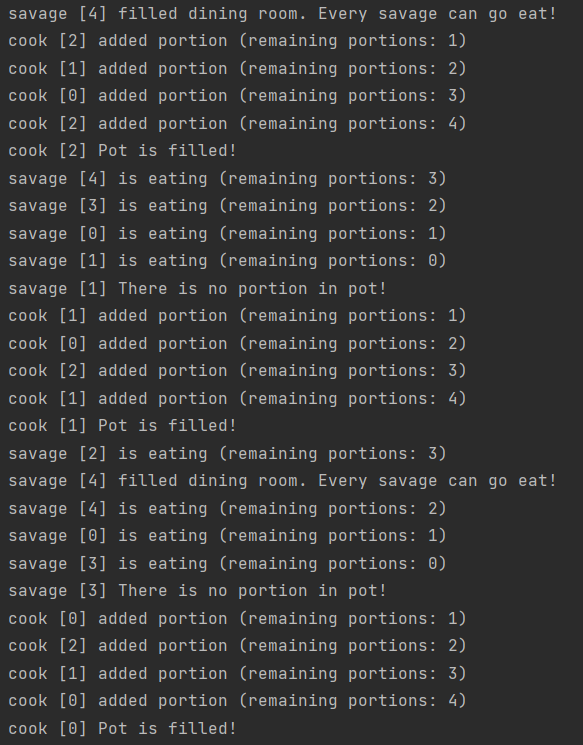
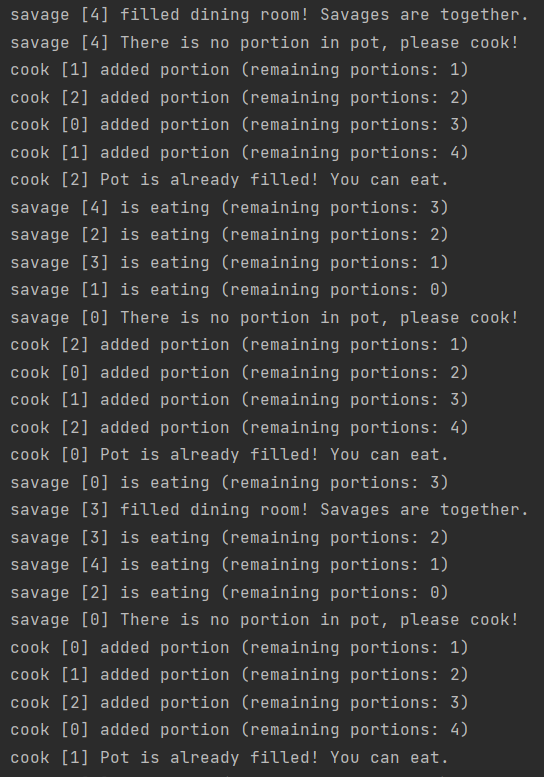
docs: update README to actual implementation

Changed region(s): [[0.0, 0.0, 0.9688, 0.9879], [0.875, 0.7718, 0.9375, 0.8027], [0.875, 0.4013, 0.9375, 0.4322]]

diff --git a/README.md b/README.md
@@ -44,24 +44,32 @@ if shared.dining_room == D:
 shared.savage_mutex.unlock()
 shared.turnstile1.wait()
 ```
-To ensure integrity, before incrementing value in dining rook to simulate that savage is ready to eat we first lock `savage_mutex`. Then value can be safely incremented and checked, if current savage is last one. If it is, he signal to all savages, that they can go eat and unlock Mutex. Otherwise, the savage is after unlocking mutex waiting for this signal from another savage (last line in snippet).
+To ensure integrity, before incrementing value in dining room to simulate that savage is ready to eat we first lock `savage_mutex`. Then value can be safely incremented and checked, if current savage is last one. If it is, he signal to all savages, that they can go eat and unlock Mutex. Otherwise, the savage is after unlocking mutex waiting for this signal from another savage (last line in snippet).
 
-Savages are now in kitchen and can access pot where we are changing value, so we need to lock `savage_mutex` again to keep integrity. Then we check and wait, when cooks are currently cooking meal  - `shared.pot_full.wait()`. If they are not cooking, function `eat_from_pot` is called, where is decremented value in `pot` and simulated getting portion by sleeping for 0.2 seconds. When this was last portion and pot is empty, before unlocking Mutex, savage clear **Event** `pot_full` for all savages, so they can't eat and must wait and signalize `pot_empty` to cook new food:
+Then we lock mutex again and check pot value. When the pot is empty (0), savage clear **Event** `pot_full` for savages, so they can't eat and must wait and signalize `pot_empty` to cook new food:
 ```
 shared.pot_full.clear()
 shared.pot_empty.signal()
 ```
+
+Then we check and wait, when cooks are currently cooking meal  - `shared.pot_full.wait()`. If they are not cooking, function `eat_from_pot` is called, where is decremented value in `pot` and simulated getting portion by sleeping for 0.2 seconds.
 
 After this we use another **barrier** to wait all savages after eating and leaving _together_. In this way we get a **reusable barrier** for savage threads.
 
 ### Function _cook_
 Function _cook_ is simulation of cook, cooking food in infinite loop.
 
-In function cook we call `cook_portion` function at begin, which contains only _sleep_ to simulate food cooking. Then we update `pot` value, so we are using mutex to ensure integrity. After locking mutex, function is waiting for `pot_empty` signal, which indicate that pot is empty and cooks can add food into it - by calling function `add_to_pot` which is incrementing pot value and simulating adding portion by sleeping for 0.1 seconds. After cook add portion into pot, he check, if pot is full. When it is full, thread clear `pot_empty` event - cooks are no more adding food into pot. Then send `pot_full` signal to savages, that pot is full and they can eat again.
+In function cook we call `cook_portion` function at begin, which contains only _sleep_ to simulate food cooking. We want to modify `pot` value, so we are using mutex to ensure integrity.
+
+After locking mutex, we check, if pot is full. When it is full, thread clear `pot_empty` event - cooks are no more adding food into pot. Then send `pot_full` signal to savages, that pot is full and they can eat again.
 ```
 shared.pot_empty.clear()
 shared.pot_full.signal()
 ```
+
+
+Then function is waiting for `pot_empty` signal, which indicate that pot is empty and cooks can add food into it - by calling function `add_to_pot` which is incrementing pot value and simulating adding portion by sleeping for 0.1 seconds.
+
 
 
 ## Implementation review
@@ -70,6 +78,6 @@ We have also added prints for the important thread activities and simulated by r
 ### Sample console output
 ![img.png](img.png)
 
-First line indicate, that all savages are ready to eat, but pot is empty first, so they must wait until cooks fill pot. Cooks are then filling pot one by one and last cook signalize to cooks that they can stop adding food and to savages, that they can eat. The 4 savages eat all the portions and the last one of them signals it. Cooks add portions and fill pot again and then can eat last one savage while others are waiting. When every savage is done eating, they can go to the next round.
+First line indicate, that all savages are ready to eat, but pot is empty first, so they must wait until cooks fill pot. Cooks are then filling pot one by one and last cook signalize to cooks that pot is already full, and they can stop adding food and to savages signalizes, that they can eat. The 4 savages eat all the portions and the next savage signals that pot is empty. Cooks add portions and fill pot again and then can eat last one savage while others are waiting. When every savage is done eating, they can go to the next round.
 
 [^1]: https://www.eiffel.org/doc/solutions/Dining_savages
